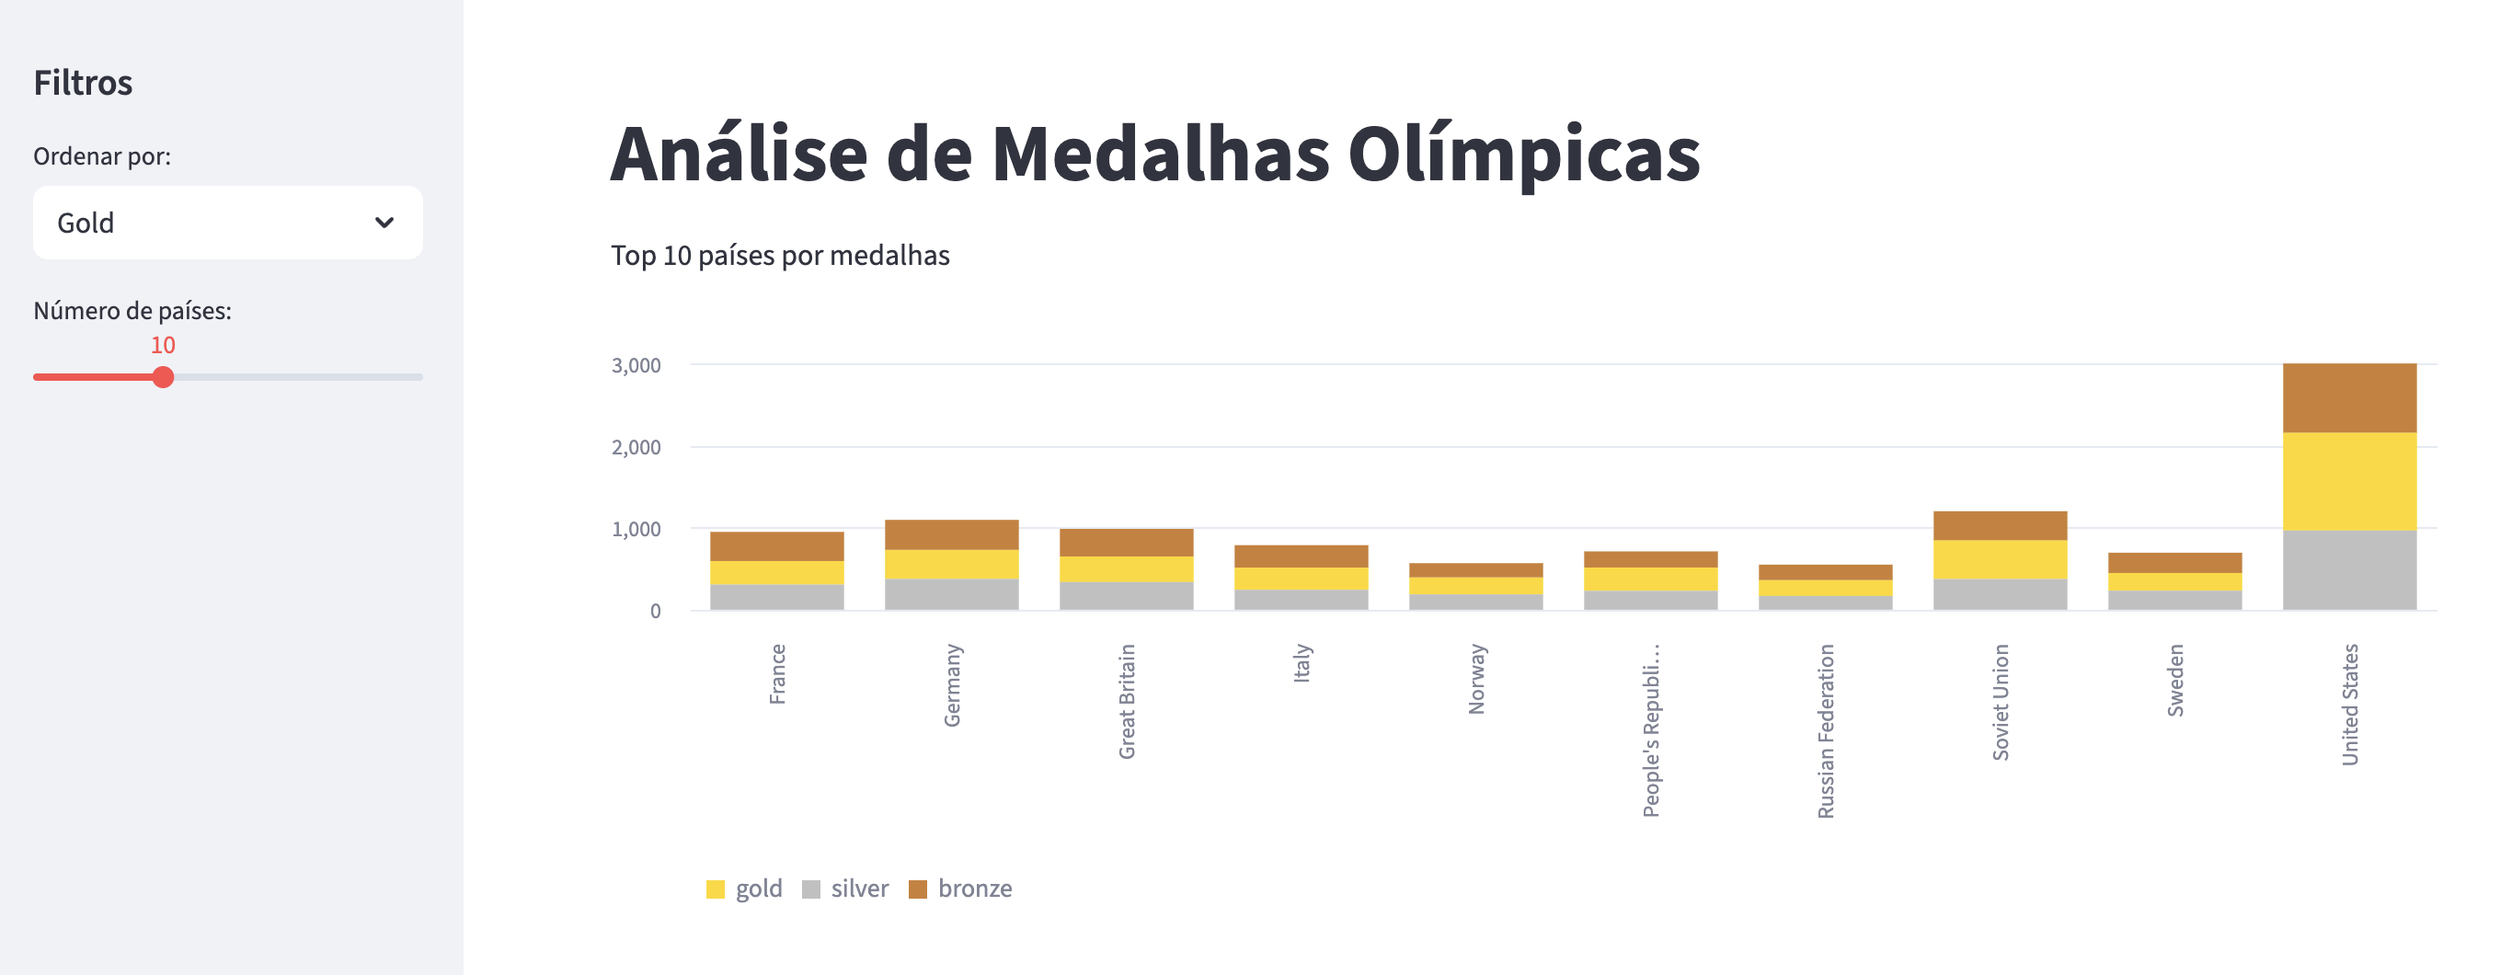
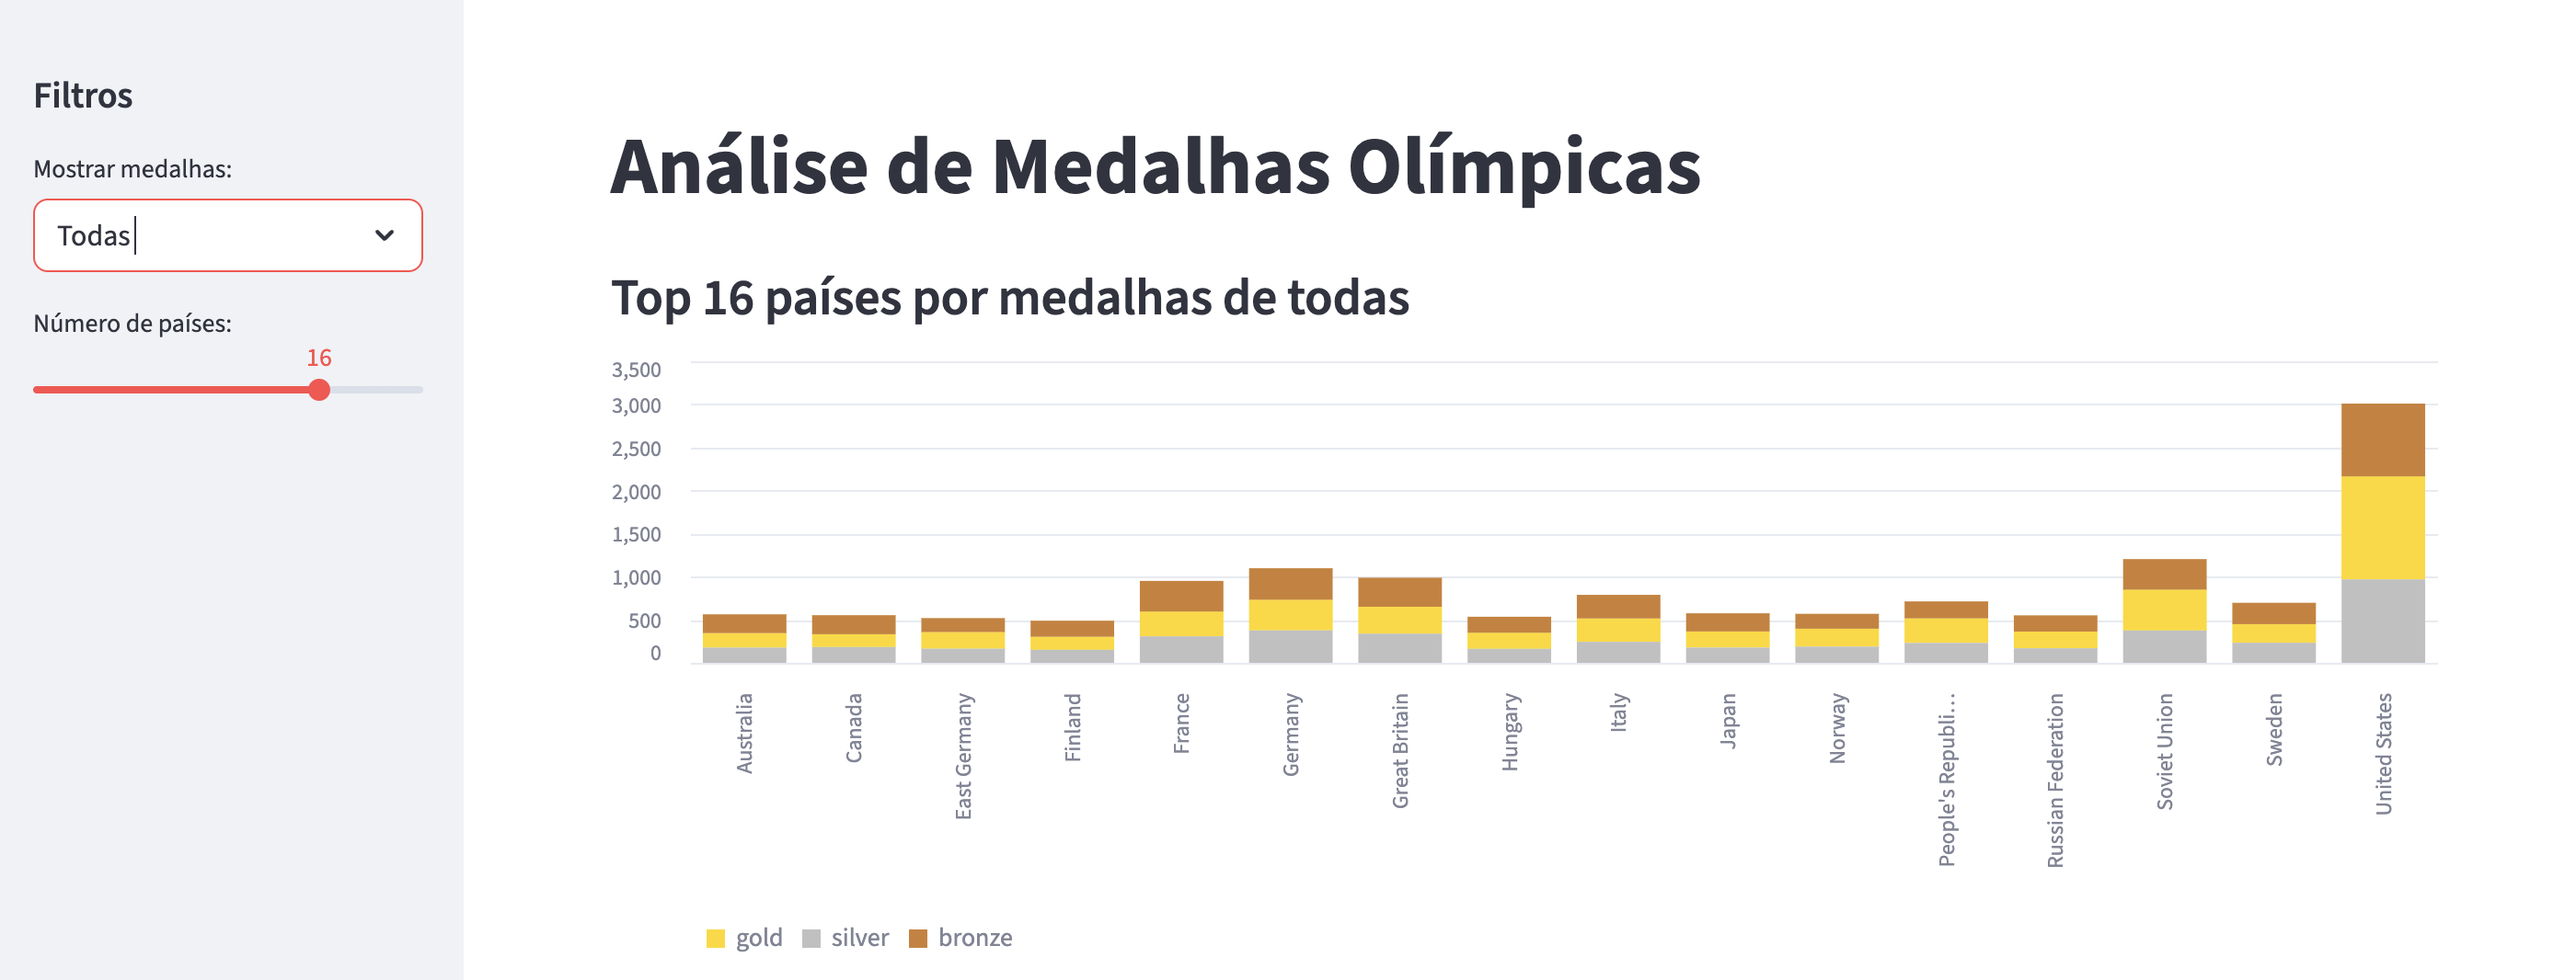
feat: implementando filtro e visualizando por tipo de medalha

diff --git a/streamlit_app.py b/streamlit_app.py
@@ -1,49 +1,108 @@
 import streamlit as st
 from src.data_loader import CSVDataLoader
 from src.medal_analyzer import MedalAnalyzer
-from src.constants import SortBy
+from enum import Enum
 
-def main():
-    # Configuração da página
-    st.set_page_config(page_title="Medalhas Olímpicas", layout="wide")
-    
-    # Título
-    st.title("Análise de Medalhas Olímpicas")
-    st.markdown("Top 10 países por medalhas")
 
-    # Carrega e processa os dados
-    loader = CSVDataLoader("data/olympics_medal_tally.csv")
-    analyzer = MedalAnalyzer(loader.load_data())
+class MedalType(Enum):
+    TODAS = "total"
+    OURO = "gold"
+    PRATA = "silver"
+    BRONZE = "bronze"
 
-    medal_colors = {
-    "gold": "#FFD700",  # Amarelo ouro
-    "silver": "#C0C0C0",  # Cinza prata
-    "bronze": "#CD7F32"   # Marrom bronze
-    }
 
-    # Sidebar com filtros
+def get_filtered_data(df, medal_type: MedalType, n_countries: int):
+    """Filtra, ordena e retorna os dados prontos para exibição."""
+    # Remove países sem medalhas (se não for 'todas')
+    if medal_type != MedalType.TODAS:
+        df = df[df[medal_type.value] > 0]
+
+    # Ordena sempre do maior para o menor
+    sorted_df = df.sort_values(by=medal_type.value, ascending=False)
+
+    # Seleciona apenas os top N países
+    return sorted_df.head(n_countries)
+
+
+def render_sidebar():
+    """Renderiza todos os filtros na sidebar."""
     with st.sidebar:
         st.header("Filtros")
-        sort_by = st.selectbox(
-            "Ordenar por:",
-            options=list(SortBy),
-            format_func=lambda x: x.value.capitalize()
+
+        medal_type = st.selectbox(
+            "Mostrar medalhas:",
+            options=list(MedalType),
+            format_func=lambda x: x.name.replace("_", " ").title()
         )
+
         n_countries = st.slider("Número de países:", 5, 20, 10)
 
-    # Dados processados
-    sorted_data = analyzer.sort_countries(by=sort_by).head(n_countries)
+    return medal_type, n_countries
 
-    # Visualização
 
-    chart_data = sorted_data.set_index("country")[["gold", "silver", "bronze"]]
-    st.bar_chart(
-    chart_data,
-    color=[medal_colors["gold"], medal_colors["silver"], medal_colors["bronze"]]  # Cores personalizadas
+def render_charts(df, medal_type: MedalType, n_countries: int):
+    """Renderiza os gráficos principais."""
+    st.markdown(f"### Top {n_countries} países por medalhas de {medal_type.name.lower()}")
+
+    if medal_type == MedalType.TODAS:
+        st.bar_chart(
+            df.set_index("country")[["gold", "silver", "bronze"]],
+            color=["#FFD700", "#C0C0C0", "#CD7F32"]
+        )
+    else:
+        st.bar_chart(
+            df.set_index("country")[[medal_type.value]],
+            color="#FFD700" if medal_type == MedalType.OURO else 
+                  "#C0C0C0" if medal_type == MedalType.PRATA else "#CD7F32"
+        )
+
+
+def render_table(df):
+    """Renderiza a tabela formatada."""
+    st.dataframe(
+        df.rename(columns={
+            "country": "País",
+            "gold": "Ouro",
+            "silver": "Prata",
+            "bronze": "Bronze",
+            "total": "Total"
+        }),
+        column_config={
+            "País": st.column_config.TextColumn("País"),
+            "Ouro": st.column_config.NumberColumn("Ouro", format="%d"),
+            "Prata": st.column_config.NumberColumn("Prata", format="%d"),
+            "Bronze": st.column_config.NumberColumn("Bronze", format="%d"),
+            "Total": st.column_config.NumberColumn("Total", format="%d")
+        },
+        hide_index=True,
+        use_container_width=True
     )
 
-    st.subheader(f"Top {n_countries} países por medalhas")
-    st.dataframe(sorted_data)
+
+def main():
+    st.set_page_config(page_title="Análise de Medalhas Olímpicas", layout="wide")
+    st.title("Análise de Medalhas Olímpicas")
+
+    try:
+        # Carrega dados
+        loader = CSVDataLoader("data/olympics_medal_tally.csv")
+        analyzer = MedalAnalyzer(loader.load_data())
+        df = analyzer.aggregate_medals()
+
+        # Sidebar (filtros)
+        medal_type, n_countries = render_sidebar()
+
+        # Processa dados
+        filtered_df = get_filtered_data(df, medal_type, n_countries)
+
+        # Renderiza visualizações
+        render_charts(filtered_df, medal_type, n_countries)
+        render_table(filtered_df)
+
+    except Exception as e:
+        st.error(f"Erro ao carregar os dados: {str(e)}")
+        st.stop()
+
 
 if __name__ == "__main__":
     main()
